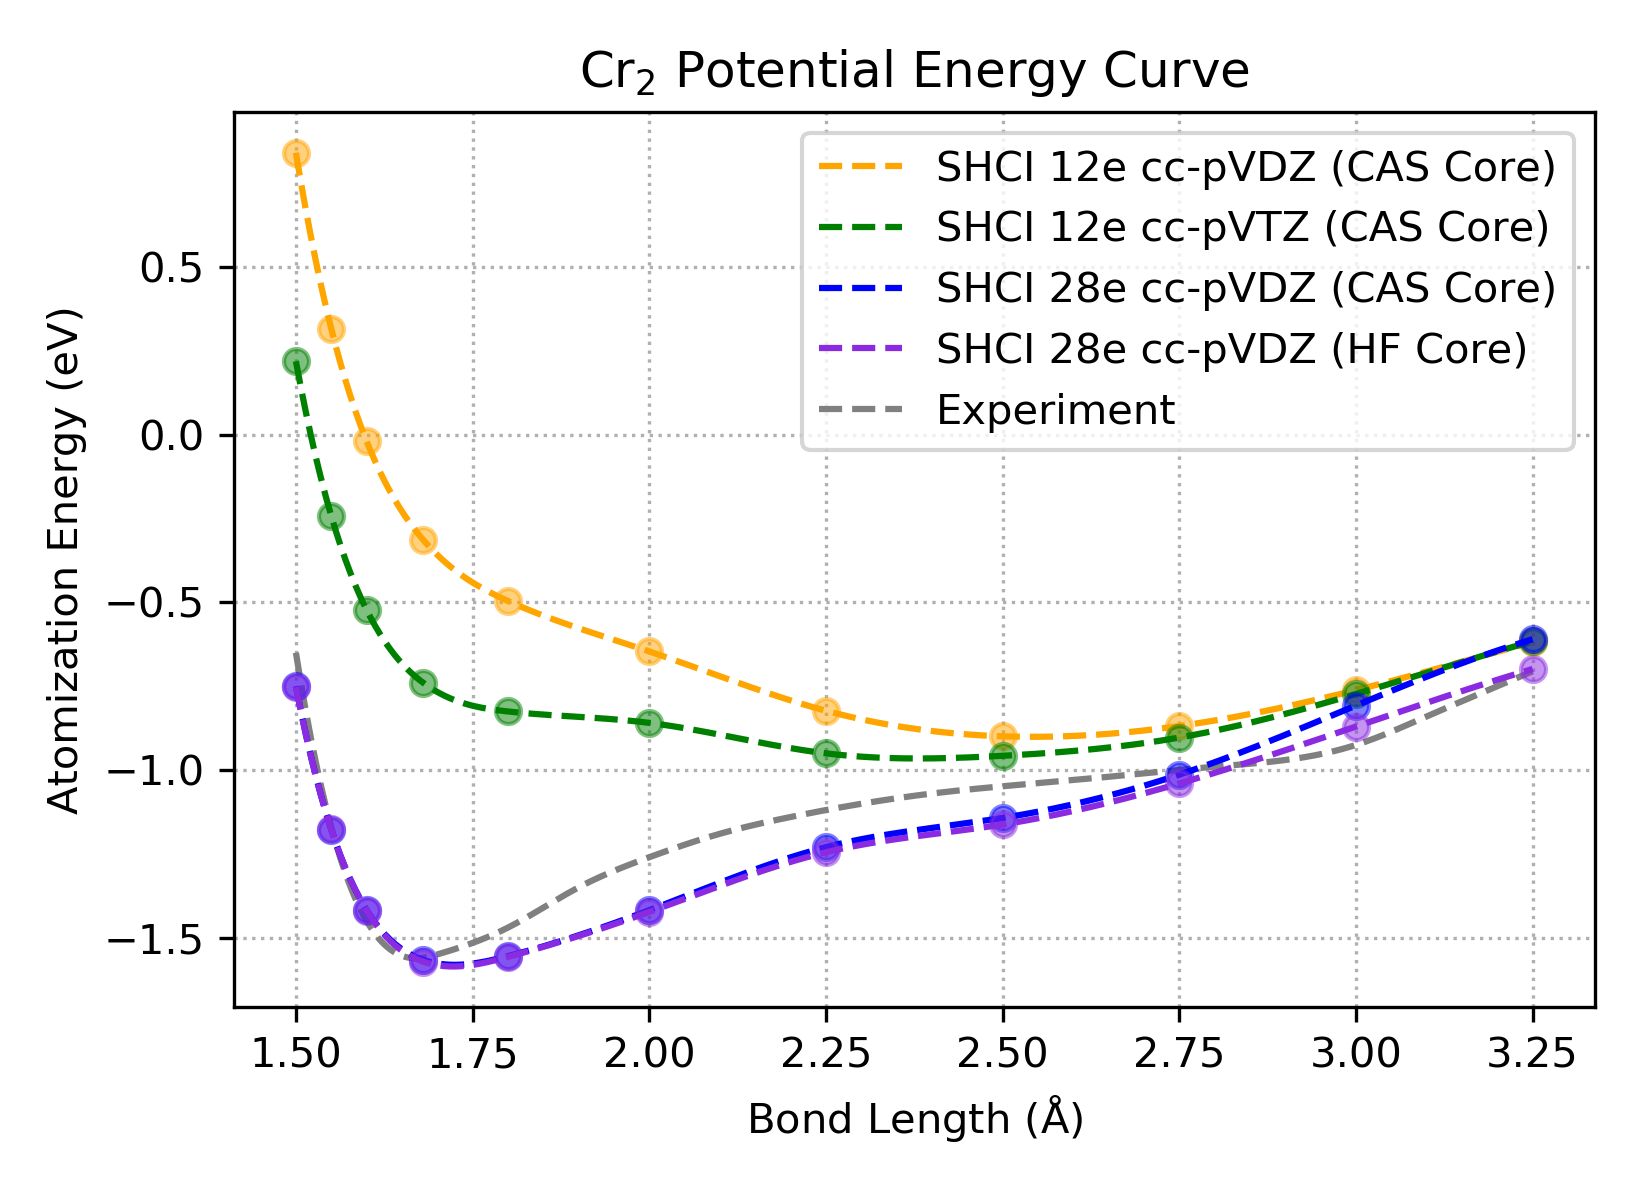
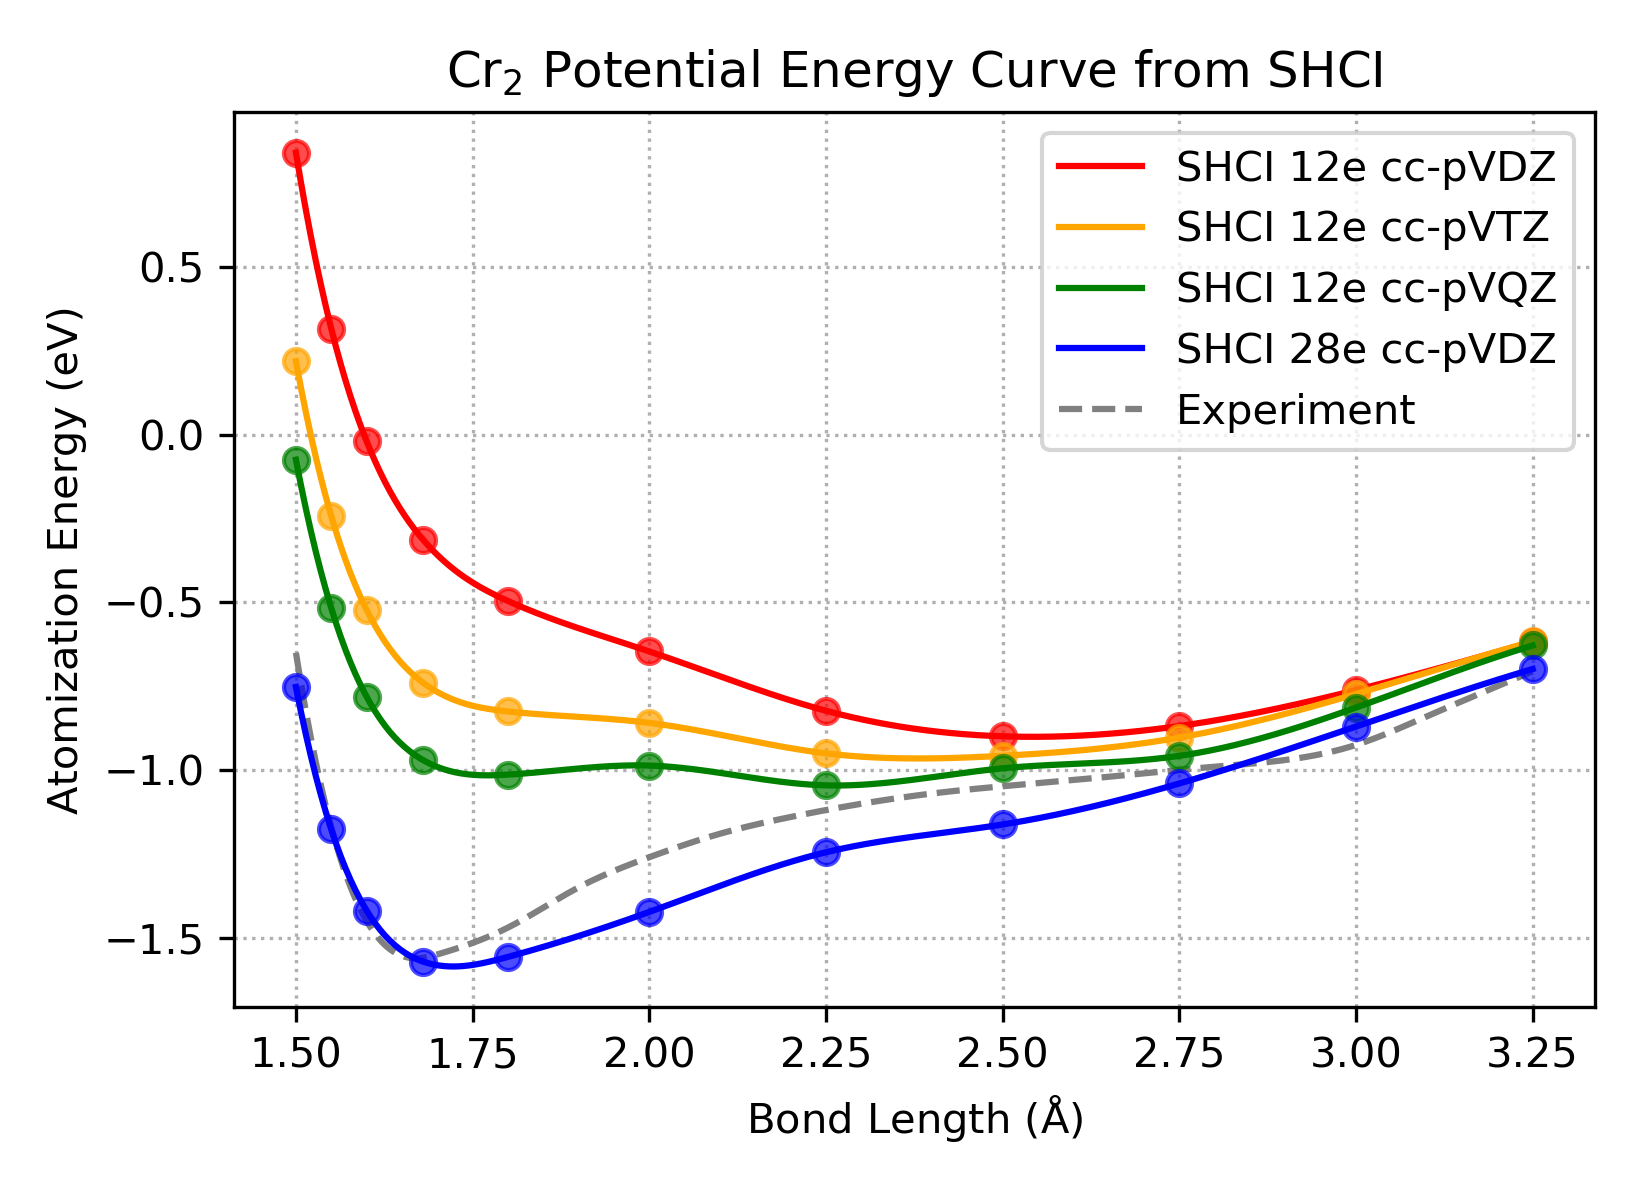
Updates from Overleaf

diff --git a/docs/cr2.tex b/docs/cr2.tex
@@ -194,8 +194,8 @@ Then we interpolate the points for each active space with cubic spline interpola
   The potential energy curves from the 12-correlated-electron calculations agree poorly with experiment, though the agreement
   improves upon increasing the basis size.
   The 28-correlated-electron calculation agrees much better with experiment.
-  {\color{red} Use updated 28-electron curve, add 4z 12-electron curve.  I think it better to use solid rather than dashed lines.  One uses dashed lines just to distinguish between curves, which is not the case here.}
 }
+%   {\color{red} Use updated 28-electron curve, add 4z 12-electron curve.  I think it better to use solid rather than dashed lines.  One uses dashed lines just to distinguish between curves, which is not the case here.}
   \label{fig:cr2curve}
   \end{center}
 \end{figure}
@@ -219,7 +219,7 @@ Then we interpolate the points for each active space with cubic spline interpola
 Fig.~\ref{fig:cr2curve} compares the energies calculated with different active spaces to the experimental data.
 The shape of the experimental curve is deduced from 29 vibrational states using negative-ion photoelectron spectroscopy~\cite{casey1993negative}.
 The measured 29 vibrational states were assigned to $\nu=1-9$ and $\nu=24-43$.
-The depth of the experimental curve is ...
+The depth of the experimental curve is 1.53(6)~eV.
 There is some uncertainty in the experimental curve due to uncertainty in the assignment of the higher vibrational levels
 as well as due to uncertainty in the depth of the potential.
 The 12-active-electron curves do not agree well with experiment.
@@ -229,7 +229,7 @@ demonstrating that semi-core correlation plays an important role in the molecula
 At large bond lengths one would expect that semi-core correlation is not important and in fact the 12 active electron
 and the 28 active electron energies become nearly coincident there.
 
-We can also see from Fig.~\ref{fig:cr2curve} that the effect of using HF core or CAS core for orbital optimization matters little to the 28 electrons SHCI calculation.
+% We can also see from Fig.~\ref{fig:cr2curve} that the effect of using HF core or CAS core for orbital optimization matters little to the 28 electrons SHCI calculation.
 
 %We also compare SHCI results with unrestricted Hartree-Fock (UHF) and low order coupled cluster methods.
 In Fig.~\ref{fig:hfcc}, we compare SHCI results to unrestricted Hartree-Fock (UHF) and unrestricted coupled cluster methods, UCCSD and UCCSD(T).
